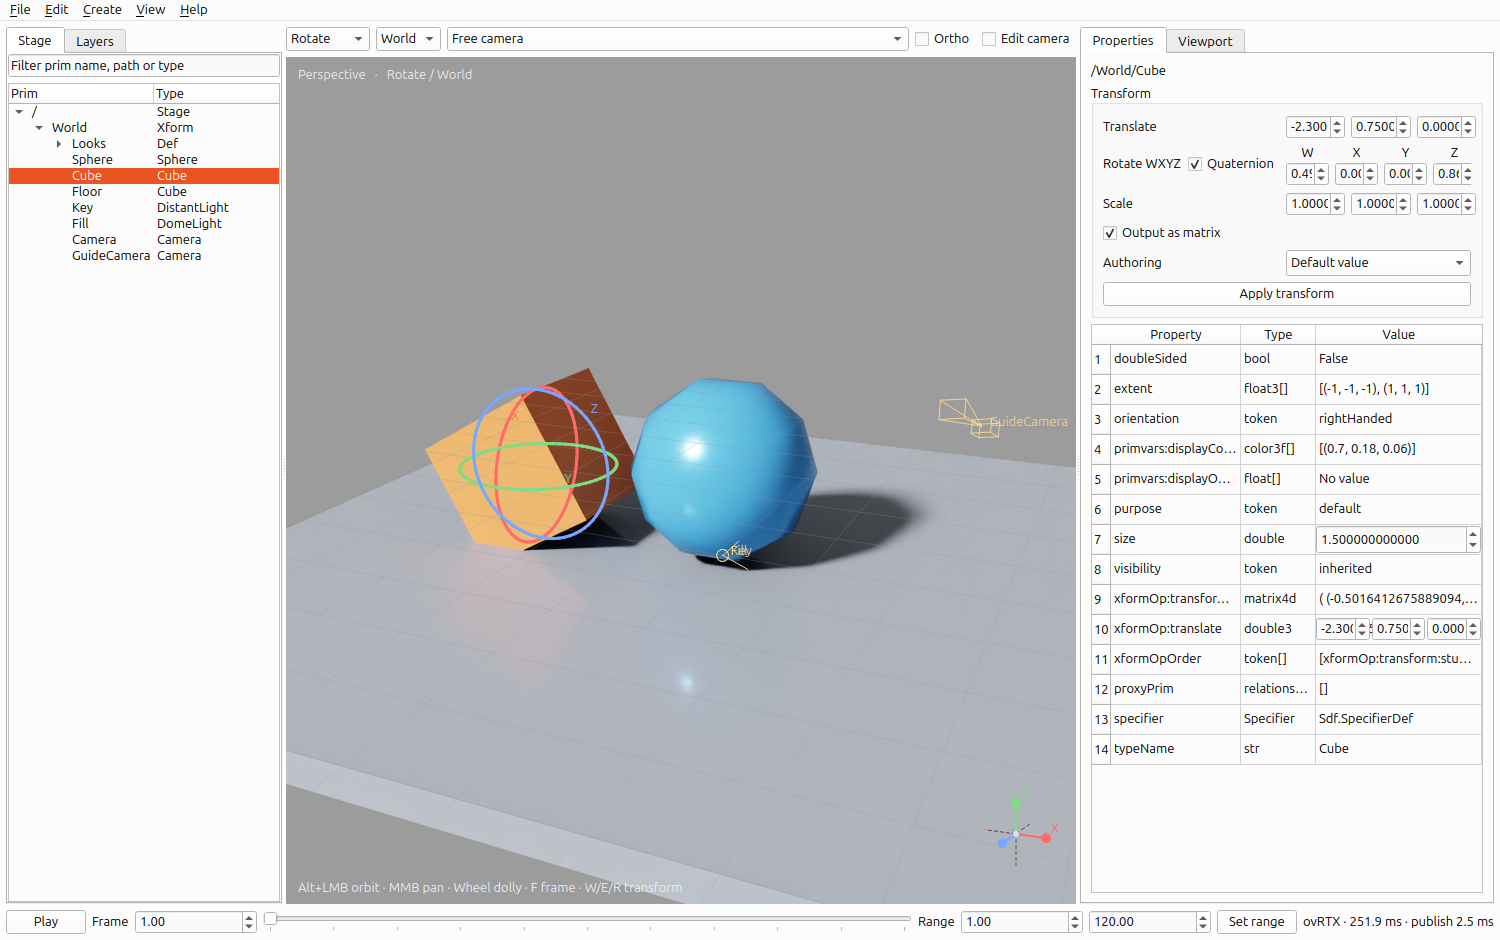
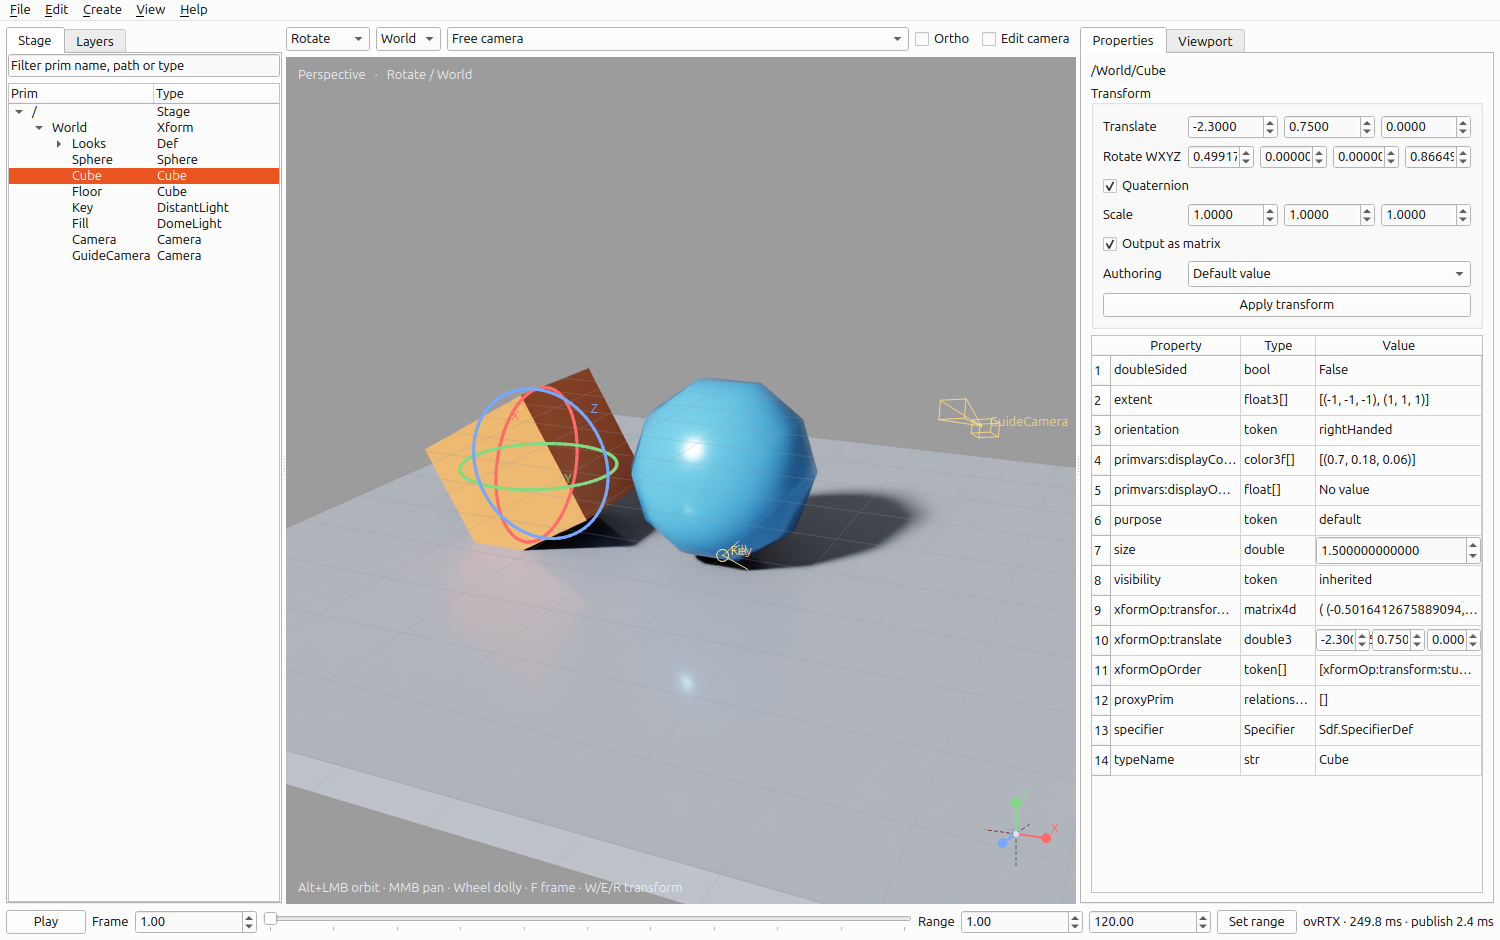
Simplify quaternion controls in the transform panel

Changed region(s): [[0.736, 0.1234, 1.0, 0.833]]

diff --git a/src/omnilab/frontends/qt/window.py b/src/omnilab/frontends/qt/window.py
@@ -269,34 +269,19 @@ class MainWindow(QMainWindow):
                 field.setMinimumWidth(0)
                 field.setSizePolicy(QSizePolicy.Ignored, QSizePolicy.Fixed)
                 field.setAccessibleName(key + ' ' + component)
-                if key == 'orient':
-                    cell = QWidget()
-                    cell_layout = QVBoxLayout(cell)
-                    cell_layout.setContentsMargins(0, 0, 0, 0)
-                    cell_layout.setSpacing(1)
-                    label = QLabel(component)
-                    label.setAlignment(Qt.AlignCenter)
-                    cell_layout.addWidget(label)
-                    cell_layout.addWidget(field)
-                    row_layout.addWidget(cell, 1)
-                else:
-                    row_layout.addWidget(field, 1)
+                row_layout.addWidget(field, 1)
                 fields.append(field)
             self.transform_fields[key] = fields
             return row
         form.addRow('Translate', transform_row('translate', 'XYZ'))
-        rotation_heading = QWidget()
-        rotation_layout = QHBoxLayout(rotation_heading)
-        rotation_layout.setContentsMargins(0, 0, 0, 0)
         self.rotation_label = QLabel('Rotate XYZ')
-        rotation_layout.addWidget(self.rotation_label)
         self.quaternion_check = QCheckBox('Quaternion')
         self.quaternion_check.setToolTip('Edit rotation as W, X, Y, Z. Nonzero quaternions are normalized on Apply.')
-        rotation_layout.addWidget(self.quaternion_check)
         self.rotation_fields = QStackedWidget()
         self.rotation_fields.addWidget(transform_row('rotateXYZ', 'XYZ'))
         self.rotation_fields.addWidget(transform_row('orient', 'WXYZ', 12))
-        form.addRow(rotation_heading, self.rotation_fields)
+        form.addRow(self.rotation_label, self.rotation_fields)
+        form.addRow(self.quaternion_check)
         form.addRow('Scale', transform_row('scale', 'XYZ'))
         self.quaternion_check.toggled.connect(lambda enabled: self.safe(lambda: self.rotation_mode_changed(enabled)))
         self.matrix_output = QCheckBox('Output as matrix')

diff --git a/README.md b/README.md
@@ -29,7 +29,7 @@ The editor retains USD layers, edit targets, transforms, typed properties, compo
 - **Viewport:** Alt+left drag orbits, middle drag pans, wheel dollies. F frames selection; Shift+F frames all. **W/E/R** select Translate arrows, Rotate rings or Scale boxes from the viewport or Stage tree, update the toolbar and focus the viewport. Drag an axis or ring to author a transform: the preview updates immediately, release commits one edit, Escape cancels. A bottom-right XYZ orientation gizmo follows the camera; **Edit → Application Settings → Show viewport orientation gizmo** controls its visibility. Camera guides draw a wireframe body and frustum. **Edit camera** makes navigation author the selected USD camera. View → Restart renderer recovers without discarding edits.
 - **Timeline:** **View → Show Timeline** toggles the bottom scrubber between Frame and Range. Drag to scrub, use arrow keys to step a frame, or enter a fractional frame directly. Scrubbing pauses playback. Visibility persists between launches.
 - **Properties:** float/double values use inline spin boxes; vectors have one field per component and colors include a picker swatch. Enter or leaving a field commits an undoable edit; Escape cancels. **Edit → Application Settings** (also Material Editor → Tools) controls float/double decimal places (defaults **6/12**) and **Show property types** for property tables/trees, including the ovRTX settings tree. Preferences persist outside scene files; changing precision never rounds stored USD values. The main Properties sidebar can shrink to **240 pixels**, with scrolling for wider content.
-- **Transform authoring:** **Quaternion** beside Rotate XYZ switches to W/X/Y/Z fields; Apply normalizes nonzero quaternions. **Output as matrix** writes Apply and viewport drags as a single active `matrix4d` xform op. Existing default/key poses and reset-stack state are retained; interpolation between keys may change. Both choices persist in `.omnilab` projects. See [transform and gizmo details](docs/MATERIAL_EDITOR_STATUS.md#quaternion-matrix-output-and-gizmos).
+- **Transform authoring:** **Quaternion** below Rotate XYZ switches to W/X/Y/Z fields; Apply normalizes nonzero quaternions. **Output as matrix** writes Apply and viewport drags as a single active `matrix4d` xform op. Existing default/key poses and reset-stack state are retained; interpolation between keys may change. Both choices persist in `.omnilab` projects. See [transform and gizmo details](docs/MATERIAL_EDITOR_STATUS.md#quaternion-matrix-output-and-gizmos).
 - **Display:** Shaded, native Shaded Wireframe, native Unlit Wireframe, Wire over Shaded, and Points. The latter two use native depth with bounded CPU mesh overlays; see their geometry limits in the status document.
 - **Material Editor (Ctrl+M):** separate **OpenPBR**, **MDL** and **MaterialX** menus and node-library tabs, typed port dragging, grouped inputs, bindings, `.mtlx` import/export and graph-local undo. Long shader identifiers elide inside the inspector; hover for the full identifier. Start Preview for the native studio. Drag the preview to orbit; middle drag pans; wheel dollies. Tools provides map/blur baking and live/frozen camera projectors.
 - **Relaunch OmniLab:** File → Relaunch OmniLab (also Material Editor → Tools) starts a fresh process to load code changes, restoring unsaved document edits, the original save destination, selection/time, material tabs/studios and console text. Undo history and Python execution state start fresh. Finish or stop an active Python cell/final render and wait for MDL loading before relaunching. A durable checkpoint remains under `$XDG_CACHE_HOME/omnilab/relaunch` (normally `~/.cache/omnilab/relaunch`); relaunch does not overwrite the original scene file.

diff --git a/docs/MATERIAL_EDITOR_STATUS.md b/docs/MATERIAL_EDITOR_STATUS.md
@@ -47,7 +47,7 @@ The updated CPU suite passes **169 tests**, including scalar/vector/color edits,
 
 ## Quaternion, matrix output and gizmos
 
-The **Quaternion** checkbox beside Rotate XYZ switches the rotation editor to explicitly labeled **W, X, Y, Z** fields. Switching converts pending rotation values without authoring USD or changing pending translation/scale. Apply normalizes a nonzero quaternion; zero-length values are rejected. With ordinary component stacks, quaternion mode authors `xformOp:orient` and Euler mode authors `xformOp:rotateXYZ`.
+The **Quaternion** checkbox sits on its own row below Rotate XYZ. It switches the rotation editor to **W, X, Y, Z** fields, with component order shown in the Rotate WXYZ row label and no extra labels above the spinboxes. Switching converts pending rotation values without authoring USD or changing pending translation/scale. Apply normalizes a nonzero quaternion; zero-length values are rejected. With ordinary component stacks, quaternion mode authors `xformOp:orient` and Euler mode authors `xformOp:rotateXYZ`.
 
 **Output as matrix** applies to both the Properties Apply button and viewport drags. It writes the combined local pose as one double-precision `xformOp:transform:studioMatrix` in the active `xformOpOrder`, respecting Local/World space, the parent transform and reset-stack state. Existing defaults and all authored transform key poses are retained, including fractional frames, when inserting a new key. Conversion and editing form one undo transaction. Original component attributes remain inactive, so referenced source layers are preserved. Matrix interpolation can differ from Euler/quaternion interpolation between authored keys. With the option off, imported or existing matrix stacks retain their usual preservation behavior; the checkbox does not immediately convert an existing stack back to components. Rotation mode and matrix output preferences persist in project/relaunch state.
 
